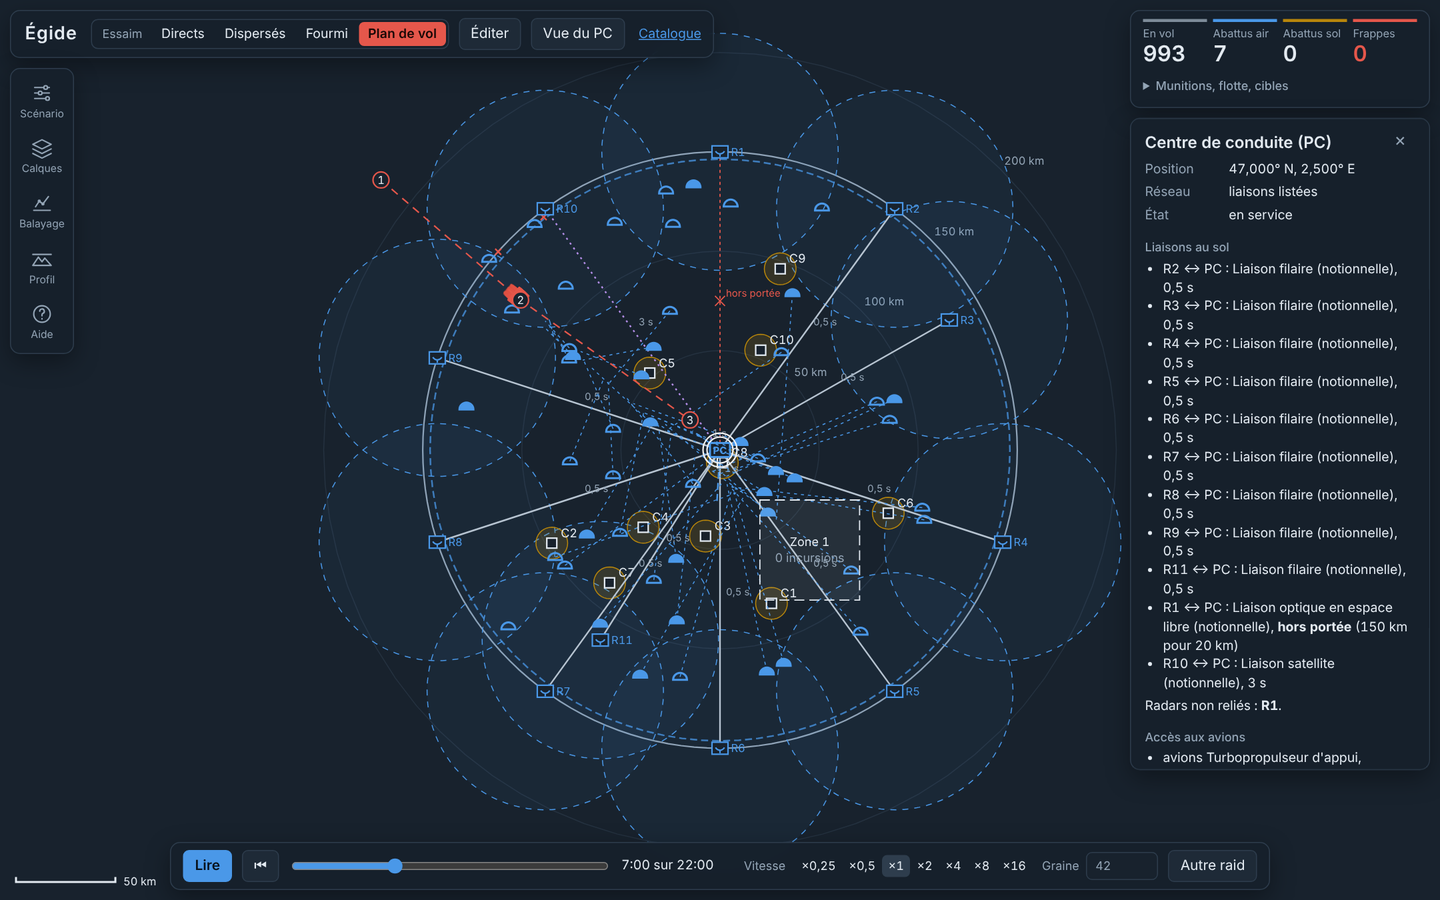
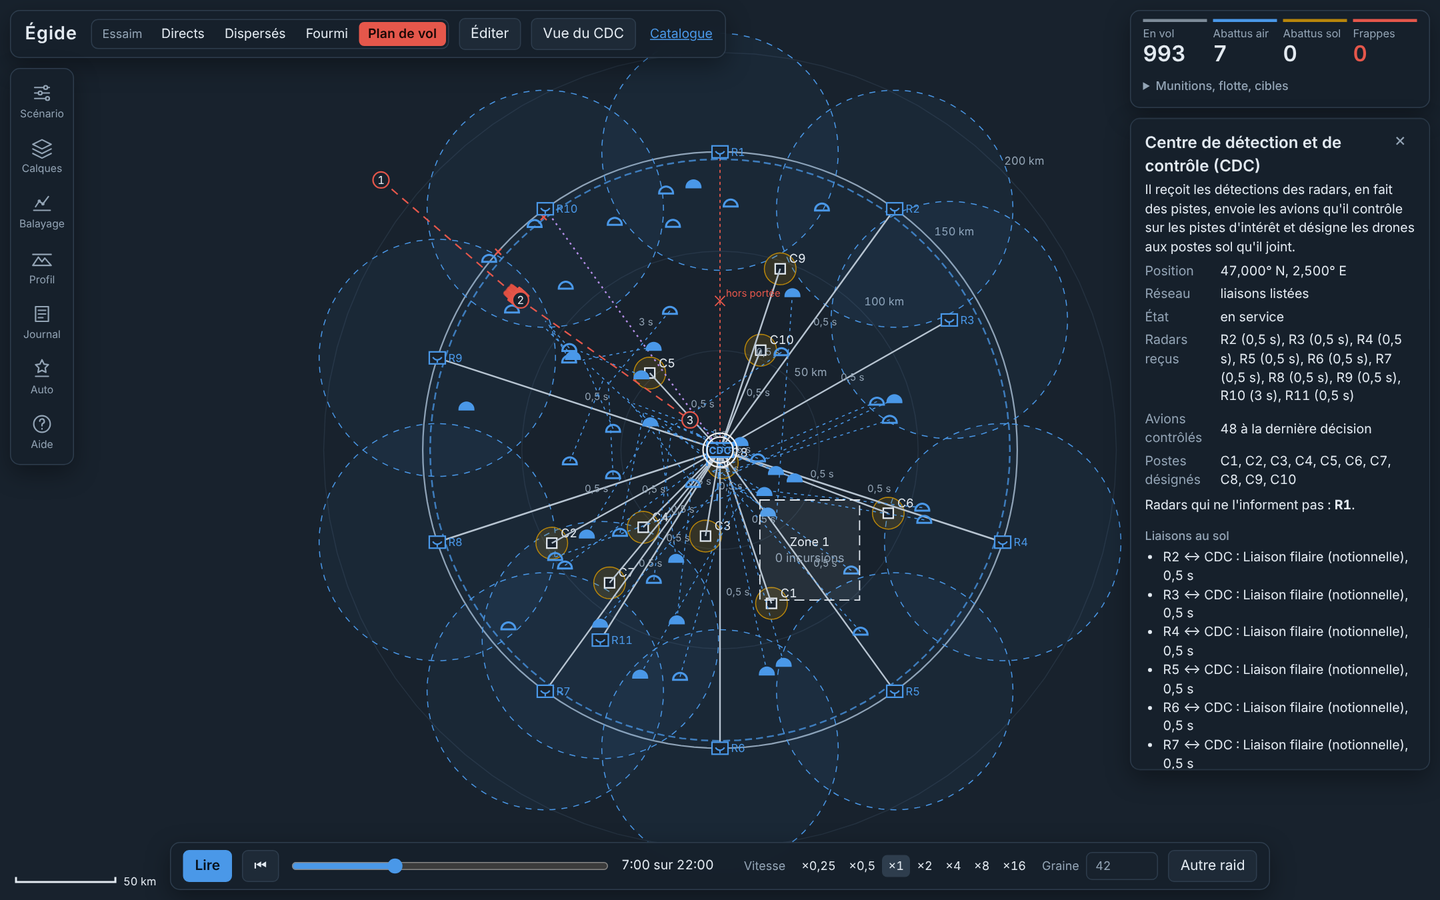
docs: README v0.4 avec nouvelles captures et GIF
Circulation de l'information (GIF et journal), centres de détection et de contrôle, drones défensifs,
auto-configuration et bibliothèque ; captures et GIF refaits dans l'interface actuelle ; version 0.4.0.

Claude-Session: https://claude.ai/code/session_016FrRWDDbCR8M6utppfq7RR

diff --git a/README.md b/README.md
@@ -1,9 +1,10 @@
 # Égide
 
 Simulation de défense du territoire face à un essaim de drones rapides, jouable comme un jeu de stratégie vu de
-dessus et assez rigoureuse pour en prouver les résultats. Le défenseur dispose de radars, d'un centre de conduite
-relié par un réseau de liaisons, de postes sol-air sur les cibles et d'avions en orbite armés de roquettes guidées ;
-l'attaquant choisit sa tactique, ou suit le plan de vol que vous dessinez, sur la vraie Terre et son relief.
+dessus et assez rigoureuse pour en prouver les résultats. Le défenseur dispose de radars, de centres de détection et
+de contrôle reliés par un réseau de liaisons, de postes sol-air sur les cibles, d'avions en orbite armés de roquettes
+guidées et de drones défensifs ; l'attaquant choisit sa tactique, ou suit le plan de vol que vous dessinez, sur la
+vraie Terre et son relief. Une auto-configuration propose la répartition des moyens pour un pays ou une zone.
 
 ![L'interface en lecture : attaque « fourmi », les avions convergent sur l'essaim, le bilan évolue en direct](docs/images/interface.gif)
 
@@ -16,14 +17,17 @@ l'attaquant choisit sa tactique, ou suit le plan de vol que vous dessinez, sur l
 - **Répond à deux questions** : à quelle vitesse les avions doivent-ils se mettre à poste, selon leur nombre, pour
   intercepter un essaim dont on ignore la route ? Combien de postes sol-air faudrait-il sans eux ?
 - **Simule sur la vraie Terre** : ellipsoïde WGS84, distances géodésiques, relief qui masque radars et liaisons radio.
-- **Modélise l'information** : la conduite ne sait que ce que ses radars lui transmettent, par des liaisons qui ont
-  une latence, une portée et qui peuvent tomber en panne ; elle n'affecte que les avions qu'elle peut joindre.
+- **Modélise l'information** : chaque centre (CDC) ne sait que ce que ses radars lui transmettent, par des liaisons
+  qui ont une latence, une portée et qui peuvent tomber en panne ; il n'affecte que les avions qu'il joint et ne
+  désigne les drones qu'aux batteries qu'il joint. On voit l'information circuler, et le journal la raconte.
+- **Configure seul** : menaces, moyens disponibles, un pays ou une zone, et l'outil propose la répartition qui
+  minimise les frappes, vérifiée en simulation.
 - **Se joue à la souris** : placer cibles, radars et avions, relier les unités, dessiner le plan de vol de l'essaim et
   des zones protégées, donner des ordres et couper des liaisons en plein raid.
 - **S'explique** : chaque unité et chaque algorithme a sa fiche (équations, hypothèses, sources, code) ; un clic sur une
   entité dit pourquoi elle fait ce qu'elle fait.
 - **Se prouve** : graines fixées, intervalles de confiance, empreinte de reproductibilité, convergence en pas de temps,
-  duels à nombres aléatoires communs, criblage de sensibilité, et près de 200 tests qui s'appliquent d'eux-mêmes à tout
+  duels à nombres aléatoires communs, criblage de sensibilité, et plus de 200 tests qui s'appliquent d'eux-mêmes à tout
   nouveau modèle.
 
 ## Lancer
@@ -54,13 +58,15 @@ fourmi, et montre que le pas de temps de 0,5 s a convergé alors que celui de 1 
 
 La carte occupe tout l'écran ; le reste flotte par-dessus et se replie.
 
-- **En haut** : la tactique de l'essaim, l'éditeur, la Vue du PC, le catalogue.
-- **À gauche** : un rail de panneaux, un à la fois (touches 1 à 5) — Scénario, Calques, Balayage, Profil, Aide.
+- **En haut** : la tactique de l'essaim, l'éditeur, la Vue du CDC (ce que sait le centre), le catalogue.
+- **À gauche** : un rail de panneaux, un à la fois (touches 1 à 7) — Scénario, Calques, Balayage, Profil, Journal,
+  Auto-configuration, Aide.
 - **À droite** : le bilan en quatre chiffres, ses détails repliés, et l'inspecteur au clic sur une entité.
 - **En bas** : la lecture (×0,25 à ×16, frise, graine) et, en édition, la barre d'outils.
 
 Symbologie inspirée d'APP-6 : dôme bleu plein pour un avion IR, creux pour un avion laser, cadre bleu pour un radar
-(R1, R2…) et pour le poste de commandement (PC), demi-losange rouge pour un drone détecté (gris s'il ne l'est pas),
+(R1, R2…) et pour les centres (CDC), losange, triangle ou cercle bleu pour les drones défensifs armés, intercepteurs et
+brouilleurs, demi-losange rouge pour un drone détecté (gris s'il ne l'est pas),
 carré pour une cible, cercle ocre pour une bulle sol qui pâlit à mesure qu'elle s'épuise.
 
 Le panneau **Calques** choisit le fond de carte (sombre, OpenStreetMap, plan ou photographies IGN, relief ombré ou
@@ -104,13 +110,13 @@ Même raid fourmi, même graine, en fin de raid :
 
 « Éditer » met le raid en pause au début et ouvre la barre d'outils :
 
-- **Sélection** (S) : glisser pour déplacer cibles, avions, radars, PC, points de passage ou zones ; rectangle ou
+- **Sélection** (S) : glisser pour déplacer cibles, avions, radars, CDC, points de passage ou zones ; rectangle ou
   Maj+clic pour sélectionner ; clic droit pour envoyer la sélection en gardant sa formation ; Ctrl+1 à 9 forme un
   groupe, 1 à 9 le rappelle ; Suppr efface ; Ctrl+Z annule.
-- **Cible** (C) et **Radar** (R) : un clic, une unité. Toucher un radar fait passer la couverture « frontière » en
+- **Cible** (C), **Radar** (R) et **CDC** (K) : un clic, une unité. Toucher un radar fait passer la couverture « frontière » en
   radars placés un à un, chacun avec sa portée.
-- **Liaison** (L) : un clic sur une unité, un clic sur l'autre, avec le moyen choisi dans la liste (filaire, radio,
-  satellite, optique). « Réseau complet » y revient.
+- **Liaison** (L) : un clic sur une unité (radar, CDC, avion, ou cible pour ses postes sol), un clic sur l'autre,
+  avec le moyen choisi dans la liste (filaire, radio, satellite, optique). « Réseau complet » y revient.
 - **Plan de vol** (P) : l'essaim suit le tracé en colonne, puis chaque drone rejoint sa cible ; le panneau Profil
   trace son altitude au-dessus du relief réel.
 - **Zone** (Z) : un clic par sommet, double-clic ou Entrée pour fermer ; une zone protégée compte les incursions.
@@ -118,7 +124,7 @@ Même raid fourmi, même graine, en fin de raid :
 ![Éditeur : un radar déplacé, un radar ajouté (R11), une zone protégée et un plan de vol de trois points sélectionnés](docs/images/editeur.png)
 
 **En plein raid**, en pause, « Éditer » passe en mode ordres : sélectionnez des avions puis clic droit pour les
-envoyer depuis le PC ; sélectionnez un radar, le PC ou une liaison puis Suppr pour le mettre hors service. Tout est
+envoyer depuis le CDC ; sélectionnez un radar, le CDC ou une liaison puis Suppr pour le mettre hors service. Tout est
 enregistré dans le scénario avec son instant, et le raid se rejoue à l'identique.
 
 ![Ordres à 7:00 : avions envoyés au nord-ouest, radar R4 mis hors service (croix rouge), liaison optique de R1 hors de portée](docs/images/ordres.png)
@@ -129,22 +135,89 @@ enregistrés et la reproductibilité par la graine valent pour tout ce que vous 
 ## Réseau d'information
 
 Par défaut, tout le monde parle avec tout le monde, sans délai. Dès la première liaison tracée, le réseau devient
-explicite : chaque radar relié au PC (au fil par défaut), le PC relié à chaque groupe d'avions (par radio), et vos
+explicite : chaque radar relié au CDC (au fil par défaut), le CDC relié à chaque groupe d'avions (par radio), et vos
 liaisons en plus.
 
 - La conduite n'apprend un drone qu'après la latence du chemin depuis le radar qui le voit ; un radar non relié voit
   pour rien.
 - Ses consignes, comme vos ordres, n'arrivent à l'avion qu'après la latence de sa liaison ; un avion hors de portée
   radio n'est plus affecté (croix rouge).
-- Les pannes se datent ; le PC peut devenir une cible de l'essaim (panneau Scénario), détruit à la première frappe.
+- Les pannes se datent ; le CDC peut devenir une cible de l'essaim (panneau Scénario), détruit à la première frappe.
 - Le synoptique trace chaque liaison selon son moyen et sa latence ; une liaison coupée est barrée en rouge.
 
-![Réseau en liaisons : fil depuis la plupart des radars, satellite depuis R10, liaison optique de R1 trop longue ; l'inspecteur du PC liste liaisons et radars non reliés](docs/images/reseau.png)
+![Réseau en liaisons : fil depuis la plupart des radars, satellite depuis R10, liaison optique de R1 trop longue ; l'inspecteur du CDC liste liaisons et radars non reliés](docs/images/reseau.png)
 
-**Vue du PC** (V) : l'écran ne montre plus que ce que sait la conduite — les drones qu'elle connaît, regroupés en
+**Vue du CDC** (V) : l'écran ne montre plus que ce que sait la conduite — les drones qu'elle connaît, regroupés en
 pistes par son algorithme de pistage. La vérité terrain revient au même bouton.
 
-![Vue du PC : les pistes de la conduite, avec leur effectif](docs/images/vue_pc.png)
+![Vue du CDC : les pistes de la conduite, avec leur effectif](docs/images/vue_pc.png)
+
+## Circulation de l'information
+
+Qui voit quoi, qui informe qui, quand : impulsion bleue d'un radar vers le CDC avec le nombre de drones signalés
+(rouge et arrêtée si le radar n'est pas relié), impulsion blanche du CDC vers l'avion qu'il envoie, cercle blanc à la
+réception de la mission, tirets jaunes quand un avion accroche un drone avec son propre capteur.
+
+![Dispersés, de 2:45 à 3:35 : les radars signalent les drones au CDC, puis, le délai de réaction écoulé, la salve des missions part vers les avions](docs/images/information.gif)
+
+Le panneau **Journal** raconte la même histoire en phrases, filtrable ; l'inspecteur d'un drone en donne la chaîne
+complète : vu par tel radar, connu du CDC, délai de réaction, accroché, tiré.
+
+![Journal de l'information et chaîne du drone 999 : vu par R10 à 1:58, connu du CDC aussitôt, actionnable à 3:28, accroché par l'avion 31, détruit à 5:40](docs/images/journal.png)
+
+## Centres de détection et de contrôle
+
+Le CDC reçoit les radars, en fait des pistes, envoie les avions qu'il contrôle et désigne les drones aux postes sol
+qu'il joint. On peut en ajouter d'autres (outil CDC) : chacun a sa propre situation, échange ses pistes par le
+réseau, contrôle les avions qu'il joint le plus vite, et reprend ceux d'un centre qui tombe. Un poste sol désigné
+tire dès que le drone entre dans sa bulle ; seul, il doit d'abord l'acquérir (10 s, notionnel).
+
+![Un second centre au sud-ouest, relié par radio aux postes de C2 : son inspecteur liste les radars qu'il reçoit et les postes qu'il désigne](docs/images/cdc.png)
+
+| Scénario de référence en liaisons, 8 raids | Détruits au sol | Frappes |
+|---|---|---|
+| Postes sol reliés au CDC | 312 | 432 ± 52 |
+| Postes sol seuls | 231 | 515 ± 42 |
+
+## Drones défensifs
+
+Trois familles notionnelles, rangées comme les avions et soumises aux mêmes règles (mission du centre, mise à poste,
+accroche, engagement) : **drones armés** (deux charges de courte portée), **intercepteurs à usage unique** (ils
+percutent leur cible et se perdent), **brouilleurs** (effet de zone : neutralisation à taux constant dans un rayon,
+sans modèle de signal). Curseurs « Drones défensifs » du panneau Scénario.
+
+![Drones armés (losanges), intercepteurs (triangles) et brouilleurs (cercles et leur rayon) au contact de l'essaim ; le bilan compte les drones neutralisés par brouillage et les intercepteurs perdus](docs/images/drones_defensifs.png)
+
+| Ajoutés aux 50 avions, tactique fourmi, 6 raids | Frappes |
+|---|---|
+| Référence | 404 ± 51 |
+| + 100 drones armés | 390 ± 52 |
+| + 200 intercepteurs | 364 ± 51 |
+| + 30 brouilleurs | 134 ± 98 (paramètre de brouillage notionnel, à calibrer) |
+
+## Auto-configuration
+
+Le panneau **Auto** demande les menaces à considérer, les moyens disponibles et la zone (un pays, d'après Natural
+Earth, ou une zone dessinée), puis construit le scénario : zone protégée, cibles et centres bien répartis, radars
+le long de la frontière, avions et drones défensifs placés selon trois paramètres de répartition. Une recherche en
+simulation garde la répartition qui minimise les frappes, toutes menaces confondues, et la compare à une répartition
+uniforme avec son intervalle de confiance. Le résultat s'applique, se range dans la bibliothèque ou s'exporte.
+
+<table>
+<tr>
+<td width="50%"><img src="docs/images/autoconfig.png" alt="Le panneau Auto sur la Belgique : essais successifs et répartition retenue"></td>
+<td width="50%"><img src="docs/images/autoconfig_scenario.png" alt="Le scénario obtenu : frontière belge en zone protégée, radars au-delà, cibles et drones répartis"></td>
+</tr>
+</table>
+
+```sh
+node outils/frontieres.js                                     # une fois : frontières Natural Earth (domaine public)
+node src/autoconfig.js --pays FRA --menaces fourmi:1000,direct:1000 --radars 30 --cibles 12 --centres 3 \
+  --postes 400 --munitions 2000 --avions 20,30,40,0,10 --tirages 3     # écrit scenarios/auto_france.json
+```
+
+La liste **Bibliothèque** du panneau Scénario charge les scénarios du dépôt (`scenarios/`) et ceux rangés dans le
+navigateur.
 
 ## Relief
 
@@ -168,7 +241,7 @@ Le terrain est ensuite un fichier : le moteur travaille hors ligne.
 Un clic sur une entité ouvre l'**inspecteur**, mis à jour en direct : pour un avion, pourquoi la conduite l'a envoyé
 là (piste retenue, score, délai, alternatives écartées) et par quelle liaison elle le joint ; pour un drone, chaque
 tir subi, sa probabilité de survie Π(1 − Pk) et la cause de sa perte ; pour une cible, sa défense ; pour un radar, sa
-portée, son masquage par le relief et sa latence jusqu'au PC ; pour le PC, l'état de tout le réseau.
+portée, son masquage par le relief et sa latence jusqu'au CDC ; pour le CDC, l'état de tout le réseau.
 
 ![Inspecteur : l'avion 42 a été envoyé sur une piste de 519 drones, au score 519, contre 116 pour l'alternative](docs/images/inspecteur.png)
 
@@ -197,6 +270,7 @@ grandeur avec son intervalle de confiance, calculé en arrière-plan.
 unites/<famille>/<classe>/<unite>.json    une unité par fichier, héritage par herite_de, chaque clé documentée
 unites/liaisons/<moyen>.json              moyens de communication : latence, portée, vue directe
 unites/terrains/<terrain>.json            reliefs : grilles d'altitudes (node outils/terrain.js)
+unites/vecteurs/drones_defensifs/…        drones armés, intercepteurs, brouilleurs
 algos/global/<rôle>/<algo>.js             un algorithme par module : fiche « meta » + fonctions du rôle, sans import
 cartes/fonds|relief|batiments/<source>.json   une source de carte par fichier, attribution obligatoire
 prive/unites/…  prive/algos/…             votre catalogue privé (ignoré par git), identifiants préfixés « prive/ »
@@ -257,7 +331,8 @@ node src/preuve.js empreinte
 - Chaque refonte prouvée : le moteur géodésique retrouve les statistiques de la v0.1, le passage aux algorithmes en
   fichiers redonne les bilans exacts, et le réseau complet sans relief laisse ces bilans inchangés.
 - Limites connues : drones sans contre-mesures ni évitement, radar parfait dans sa portée, pas encore de débit ni de
-  brouillage sur les liaisons (MODELE § 7, § 15 et § 16).
+  brouillage sur les liaisons, drones défensifs et brouillage notionnels, auto-configuration par recherche locale
+  (MODELE § 7, § 15 à § 20).
 
 ## Documentation
 

diff --git a/docs/PLAN_V2.md b/docs/PLAN_V2.md
@@ -16,6 +16,8 @@ relief ; on place les unités et on trace les plans de vol à la souris ; chaque
   (jalons 0 à 4).
 - **v0.3.0** : outils de preuve (jalon 5), interface centrée sur la carte avec calques, radars placés (jalon 6, premier
   lot), réseau d'information avec pannes et Vue du PC (jalon 7, lots 1 et 2), relief dans le moteur (jalon 2).
+- **v0.4.0** : circulation de l'information lisible (jalon 8), centres de détection et de contrôle et batteries
+  désignées (jalon 9), drones défensifs (jalon 10), auto-configuration et bibliothèque de scénarios (jalon 11).
 
 ## Arborescence cible
 ```
